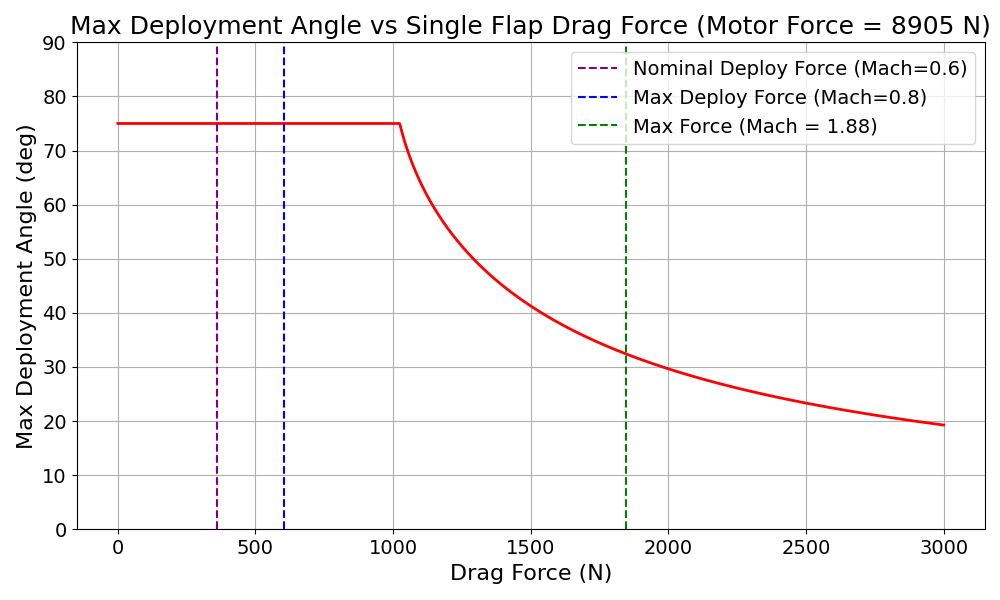
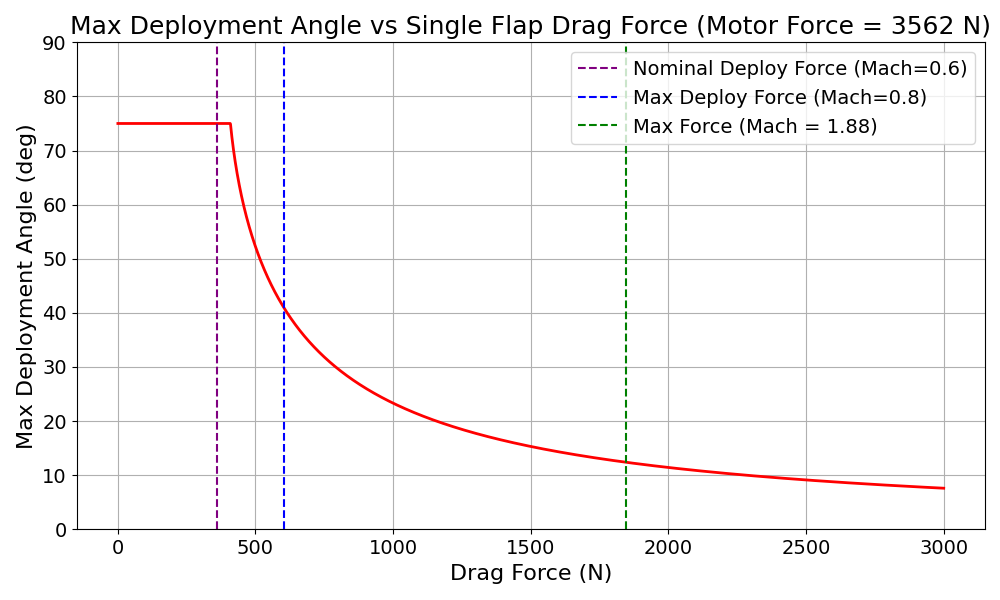
flap force stuff with new stronger motor

diff --git a/flap_force/motor_parameters.py b/flap_force/motor_parameters.py
@@ -23,7 +23,7 @@ def motor_parameters(motor_torque, motor_speed, gear_ratio, screw_lead, motor_vo
     ARM_HORIZONTAL_IN = 1.5  # in inches
     ARM_HORIZONTAL_SI = ARM_HORIZONTAL_IN * 0.0254  # meters
     LEAD_SCREW_EFFICIENCY = 0.5  # range 0–1
-    BATTERY_VOLTAGE = 3.7  # V per battery
+    BATTERY_VOLTAGE = 4  # V per battery
     BATTERY_CAPACITY = 200  # mAh
     BATTERY_CAPACITY_SI = BATTERY_CAPACITY / 1000  # Ah
 
@@ -40,15 +40,17 @@ def motor_parameters(motor_torque, motor_speed, gear_ratio, screw_lead, motor_vo
     print(f"Motor Wattage: {motor_wattage:.2f} W")
 
     # Battery calculations
-    voltage_batteries = motor_voltage / BATTERY_VOLTAGE
-    number_of_batteries = math.ceil(voltage_batteries)
-    print(f"Number of Batteries: {number_of_batteries}")
+    # voltage_batteries = motor_voltage / BATTERY_VOLTAGE
+    # number_of_batteries = math.ceil(voltage_batteries)
+    # print(f"Number of Batteries: {number_of_batteries}")
 
-    battery_life = BATTERY_CAPACITY_SI / motor_amps
-    print(f"Battery Life (hours): {battery_life:.2f}")
+    # battery_life = BATTERY_CAPACITY_SI / motor_amps
+    # print(f"Battery Life (hours): {battery_life:.2f}")
 
     # Output speed and force
     speed = (2 * ARM_HORIZONTAL_SI / screw_lead_si) / motor_speed_si
-    force = motor_torque * 2 * math.pi * LEAD_SCREW_EFFICIENCY / screw_lead_si
+    force = motor_torque * 2 * math.pi * LEAD_SCREW_EFFICIENCY / screw_lead_si\
+    
+    print(f"Motor Force: {force:.2f} N")
 
     return force, speed

diff --git a/flap_force/main.py b/flap_force/main.py
@@ -6,7 +6,7 @@ import matplotlib.pyplot as plt
 
 # Constants
 force_drag_range = np.arange(1, 3001, 1)  # N
-force_motor = motor_parameters(.144, 3500, 50, 2.54, 24, 1.67)[0]  # N
+force_motor = motor_parameters(.144*2, 4000, 10, 2.54, 24, 1.67)[0]  # N
 
 ### Plot 1: Max Flap Angle vs Drag Force ###
 # Define drag force range
